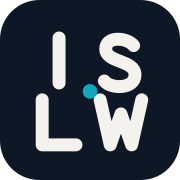
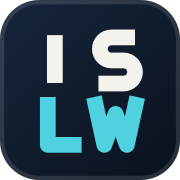
feat(brand): refine ISLW monogram and regenerate all derived assets
- Cleaner two-tone mark: IS in warm white over LW in cyan, heavier
  consistent strokes, geometric S, gradient tile with subtle edge highlight
- Applied to favicon.svg, Monogram component (header/footer), OG template
- Regenerated favicon-32, apple-touch-icon, icon-512 and og-image
- Tile keeps fixed brand colours in light and dark themes

diff --git a/scripts/og/og-image.html b/scripts/og/og-image.html
@@ -116,14 +116,13 @@
       <section>
         <div class="brand">
           <svg viewBox="0 0 64 64" aria-hidden="true">
-            <rect width="64" height="64" rx="14" fill="#101A29" stroke="#2a3b57" stroke-width="1.5" />
-            <g fill="none" stroke="#F4F2EC" stroke-width="4.6" stroke-linecap="round" stroke-linejoin="round">
-              <path d="M21 13.5V29.5" />
-              <path d="M47.5 16.2C45.4 13.4 37.6 12.6 37.6 17.4c0 5 10.4 3.8 10.4 9.2 0 5.2-8.6 5.1-10.9 2.2" />
-              <path d="M15 35.5V51.5h12" />
-              <path d="M35.6 35.5l3.6 16 3.8-11 3.8 11 3.6-16" />
+            <defs><linearGradient id="t" x1="0" y1="0" x2="1" y2="1"><stop offset="0" stop-color="#17263D" /><stop offset="1" stop-color="#0A111C" /></linearGradient></defs>
+            <rect width="64" height="64" rx="14" fill="url(#t)" />
+            <rect x=".75" y=".75" width="62.5" height="62.5" rx="13.25" fill="none" stroke="#FFFFFF" stroke-opacity=".14" stroke-width="1.5" />
+            <g fill="none" stroke-width="5.6" stroke-linejoin="round">
+              <g stroke="#F4F2EC"><path d="M19.5 12.5V29.5" /><path d="M48 13.3H39.6a4.1 4.1 0 0 0 0 8.2h4.3a4.1 4.1 0 0 1 0 8.2H35" /></g>
+              <g stroke="#4FD1E0"><path d="M17 34.5V51.5H29" /><path d="M33.4 34.5l3.7 17 4-11 4 11 3.7-17" /></g>
             </g>
-            <circle cx="32" cy="32.5" r="2.6" fill="#4FD1E0" />
           </svg>
           <span class="eyebrow">Portfolio · Madrid</span>
         </div>
